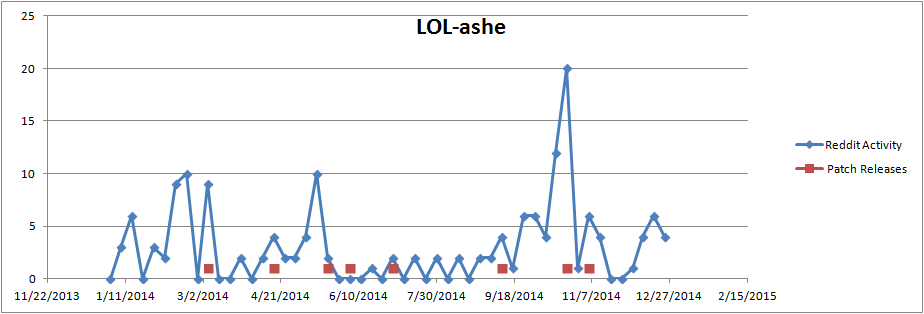
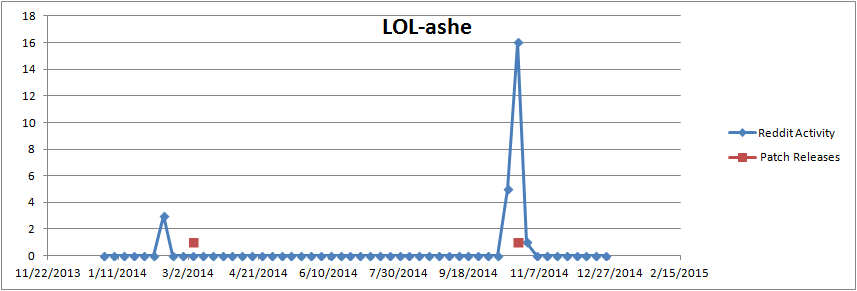
reran an analysis

Changed region(s): [[0.0, 0.0309, 0.8495, 0.9588], [0.8495, 0.433, 0.9708, 0.4948], [0.8495, 0.5258, 1.0, 0.5567]]

diff --git a/SENG371/src/jeremy/seng371/analytics/Analyzer.java b/SENG371/src/jeremy/seng371/analytics/Analyzer.java
@@ -20,10 +20,10 @@ public class Analyzer {
 	
 	//===================================
 	//Search settings
-	private static final String gameName = "World of Warcraft";	// Used in the database search
-	private static final String gameNameShort = "WOW";			// Reflected in the file name
+	private static final String gameName = "League of Legends";	// Used in the database search
+	private static final String gameNameShort = "LOL";			// Reflected in the file name
 	
-	private static final String term = "shaman";					// The term to look for in both the Reddit Posts and Patch Notes
+	private static final String term = "ashe ";					// The term to look for in both the Reddit Posts and Patch Notes
 	//===================================
 	
 	public static void main(String[] args) {	
